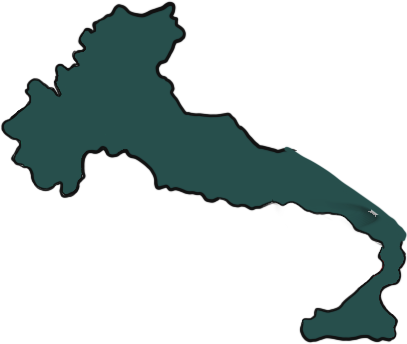
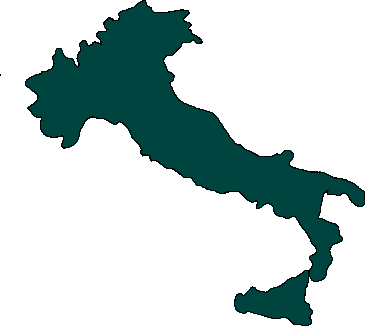
replaced some of the header images with a better version

diff --git a/css/animation.css b/css/animation.css
@@ -1,120 +1,71 @@
 /* header main image animation */
 
-@keyframes slide {
-	0% {
-		transform: translate(0, 0);
-	}
-	100% {
-		transform: translate(var(--initial), var(--final));
-	}
-}
 
-/* @keyframes slideLeft2 {
-	0% {
-		transform: translate(0, 0);
-	}
-	100% {
-		transform: translate(-270px, 30px);
-	}
-}
 
-@keyframes slideRight {
-	0% {
-		transform: translate(0, 0);
-	}
-	100% {
-		transform: translate(330px, -120px);
-	}
-} */
 
-.leaf-08 {
-	--initial: 330px;
-	--final: -120px;
-	animation: 3s ease-out 1s 1 slide;
-	transform: 
-		translate(var(--initial), var(--final));
-}
-
-.leaf-02 {
-	--initial: 310px;
-	--final: -150px;
-	animation: 3s ease-out 1s 1 slide;
-	transform: 
-		translate(var(--initial), var(--final));
-}
-
-.plane {
-	--initial: -320px;
-	--final: -70px;
-	animation: 5s ease-out 1s 1 slide;
-	transform: 
-		translate(var(--initial), var(--final));
-}
-
-.shoes {
-	--initial: 58px;
-	--final: 68px;
-	animation: 5s ease-out 1s 1 slide;
-	transform: 
-		translate(var(--initial), var(--final));
-}
-
-.leaf-08 {
-	--initial: 120px;
-	--final: -30px;
-	animation: 6s ease-out 1s 1 slide;
-	transform: 
-		translate(var(--initial), var(--final));
+.header-img.endposition .leaf-08 {
+	/* --initial: 330px;
+	--final: -120px; */
+	top: 450px;
+	left: 466px;
+	transform: rotate(140deg);
 }
 
 .leaf-07 {
-	--initial: -120px;
-	--final: 30px;
-	animation: 4s ease-out 1s 1 slide;
-	transform: 
-		translate(var(--initial), var(--final));
+	/* --initial: -120px;
+	--final: 30px; */
 
 }
 
 .leaf-06 {
-	--initial: 320px;
-	--final: 30px;
-	animation: 4s ease-out 1s 1 slide;
-	transform: 
-		translate(var(--initial), var(--final));
+	/* --initial: 320px;
+	--final: 30px; */
+
 }
 
 .leaf-05 {
-	--initial: -458px;
-	--final: -120px;
-	animation: 6s ease-out 1s 1 slide;
-	transform: 
-		translate(var(--initial), var(--final));
-}
-.leaf-04 {
-	--initial: -398px;
-	--final: -120px;
-	animation: 5s ease-out 1s 1 slide;
-	transform: 
-		translate(var(--initial), var(--final));
+	/* --initial: -458px;
+	--final: -120px; */
+
 }
 
-.leaf-01 {
-	--initial: -270px;
-	--final: 30px;
-	animation: 3s ease-out 1s 1 slide;
-	transform: translate(var(--initial), var(--final));
+.leaf-04 {
+	/* --initial: -398px;
+	--final: -120px; */
+
 }
 
 .leaf-03 {
-	--initial: -170px;
-	--final: -40px;
-	animation: 3s ease-out 1s 1 slide;
-	transform: translate(var(--initial), var(--final));
+	/* --initial: -170px;
+	--final: -40px; */
+
+}
+
+.leaf-02 {
+	/* --initial: 310px;
+	--final: -150px; */
+
+}
+
+.leaf-01 {
+	/* --initial: -270px;
+	--final: 30px; */
+
+}
+
+
+.plane {
+	/* --initial: -320px;
+	--final: -70px; */
+
+}
+
+.shoes {
+	/* --initial: 58px;
+	--final: 68px; */
+
 }
 
 .italy {
-	display: block;
-	opacity: 1;
-	transition: opacity 5s;
+
 }

diff --git a/js/index.js b/js/index.js
@@ -1,3 +1,13 @@
+const DISPLAY_MENU_DELAY = 1000;
+const DISPLAY_MENU_LABEL_DELAY = 550;
+const DISPLAY_HEADER_DELAY = 1500;
+
+const checkbox = document.getElementById("menu-toggle");
+const menuList = document.querySelector(".menu-list");
+const menuLabel = document.querySelector(".menu");
+const headerImg = document.querySelector(".header-img");
+
+
 const cvButton = document.getElementById("cvButton");
 const [
 	profile,
@@ -61,12 +71,6 @@ calibrate();
 
 // when menu toggle is clicked ...
 
-const checkbox = document.getElementById("menu-toggle");
-const menuList = document.querySelector(".menu-list");
-const menuLabel = document.querySelector(".menu");
-const leaf = document.querySelector("leaf-08");
-const body = document.body;
-
 function delayAddClassName(element, className, delayTime = 0) {
 	setTimeout(
 		() => {
@@ -81,15 +85,15 @@ const openMenu = () => {
 		[
 			menuList,
 			"openMenu",
-			1000
+			DISPLAY_MENU_DELAY
 		],
 		[
 			menuLabel,
 			"active",
-			550
+			DISPLAY_MENU_LABEL_DELAY
 		],
 		[
-			body,
+			document.body,
 			"noscroll"
 		]
 	].forEach(args => delayAddClassName(...args));
@@ -98,7 +102,7 @@ const openMenu = () => {
 function closeMenu() {
 	menuList.classList.remove("openMenu");
 	menuLabel.classList.remove("active");
-	body.classList.remove("noscroll");
+	document.body.classList.remove("noscroll");
 };
 
 checkbox.addEventListener("input", () => {
@@ -110,7 +114,10 @@ checkbox.addEventListener("input", () => {
 });
 
 // when the page loads, animation for the image elements 
+//1. add a class name to some some element after some time
+delayAddClassName(
+	headerImg,
+	"endposition",
+	DISPLAY_HEADER_DELAY
+);
 
-window.addEventListener('load', function() {
-
-});

diff --git a/css/layout.css b/css/layout.css
@@ -85,9 +85,10 @@ article > header {
 }
 
 body > header {
-	min-height: 100vh;
 	display: flex;
 	flex-direction: column;
+	min-height: 100vh;
+	overflow-x: hidden;
 }
 
 body > nav {
@@ -219,13 +220,17 @@ header > section {
 }
 
 .header-img {
-	margin: 0 auto;
 	position: relative;
-	z-index: 2;
 	left: 0;
 	top: 0;
-	width: var(--diameter);
+
+	/* width: var(--diameter); */
 	height: var(--diameter);
+
+	margin: 0 auto;
+
+	flex-grow: 1;
+	z-index: 2;
 	/* aspect-ratio: 1; */
 	/* transform: scale(0.5); */
 }
@@ -290,67 +295,64 @@ header > section {
 	z-index: 9;
 }
 
-.header-img .leaf-01 {
-	width: 10%;
+.header-img .leaf-01,
+.header-img .leaf-02,
+.header-img .leaf-03,
+.header-img .leaf-04,
+.header-img .leaf-05,
+.header-img .leaf-06,
+.header-img .leaf-07,
+.header-img .leaf-08 {
+	min-height: 10%;
+	max-height: 7%;
+}
 
+.header-img .leaf-01 {
 	top: 391px;
 	left: -12px;
 	z-index: 8;
 }
 
 .header-img .leaf-02 {
-	width: 10%;
-
 	top: 302px;
 	left: 395px;
 	z-index: 7;
 }
 
 .header-img .leaf-03 {
-	width: 12%;
-
 	top: 306px;
 	left: -75px;
 	z-index: 8;
 }
 
 .header-img .leaf-04 {
-	width: 11%;
-
 	top: 396px;
 	left: -75px;
 	z-index: 8;
 }
 
 .header-img .leaf-05 {
-	width: 12%;
-
 	top: 222px;
 	left: 68px;
 	z-index: 9;
 }
 
 .header-img .leaf-06 {
-	width: 12%;
-
 	top: 368px;
 	left: 430px;
 	z-index: 7;
 }
 
 .header-img .leaf-07 {
-	width: 14%;
-
 	top: 404px;
 	left: 78px;
 	z-index: 8;
 }
 
 .header-img .leaf-08 {
-	width: 13%;
-
-	top: 387px;
+	top: 367px;
 	left: 476px;
+	transform: rotate(90deg);
 	z-index: 8;
 }
 

diff --git a/css/wide.css b/css/wide.css
@@ -139,4 +139,13 @@ article > header hgroup {
 	font-size: 5rem;
 }
 
-
+.header-img .leaf-08,
+.header-img .leaf-07,
+.header-img .leaf-06,
+.header-img .leaf-05,
+.header-img .leaf-04,
+.header-img .leaf-03,
+.header-img .leaf-02,
+.header-img .leaf-01 { 
+	max-height: 9%;
+}

diff --git a/index.html b/index.html
@@ -22,7 +22,7 @@
 		rel="stylesheet"
 		type="text/css"
 		media="(min-width: 960px)"
-		href="/css/wide.css">
+		href="/css/wide.css" />
 
 	<link
 		rel="stylesheet"
